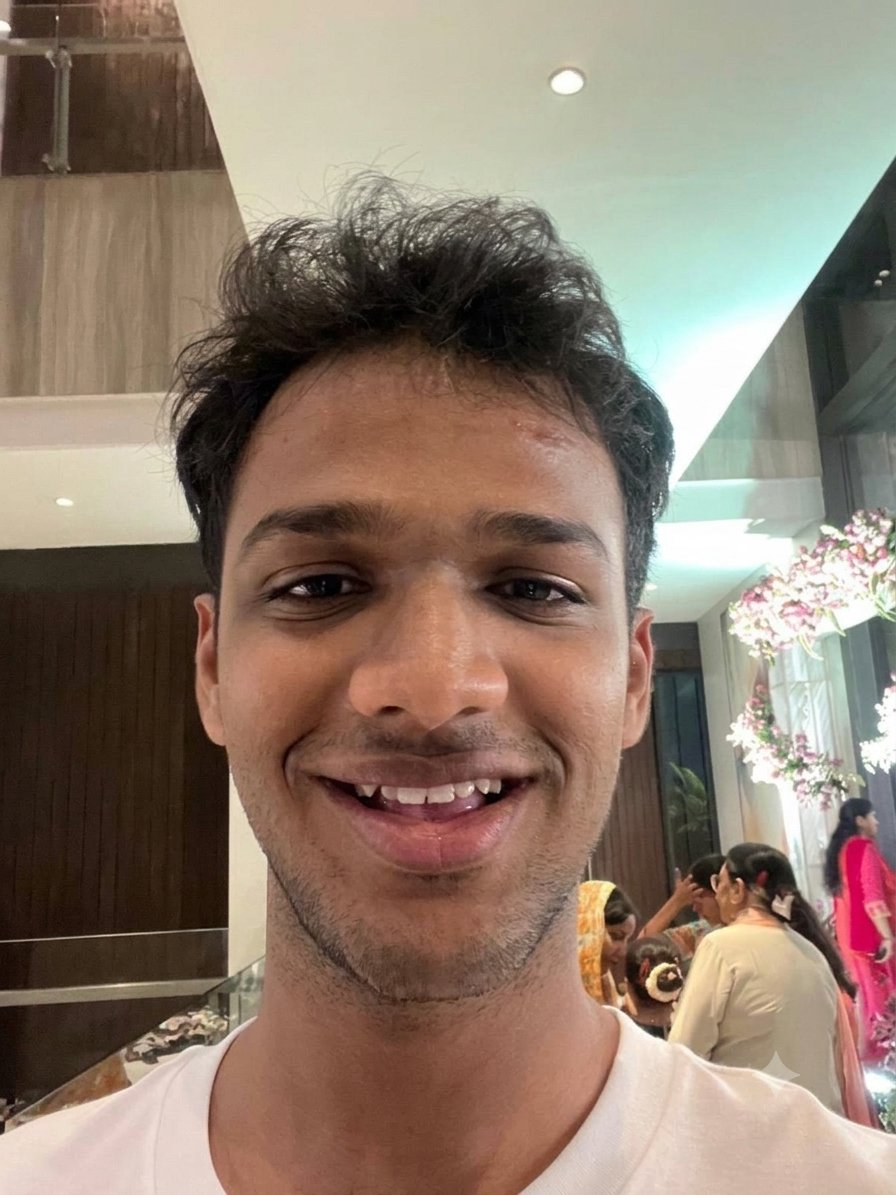
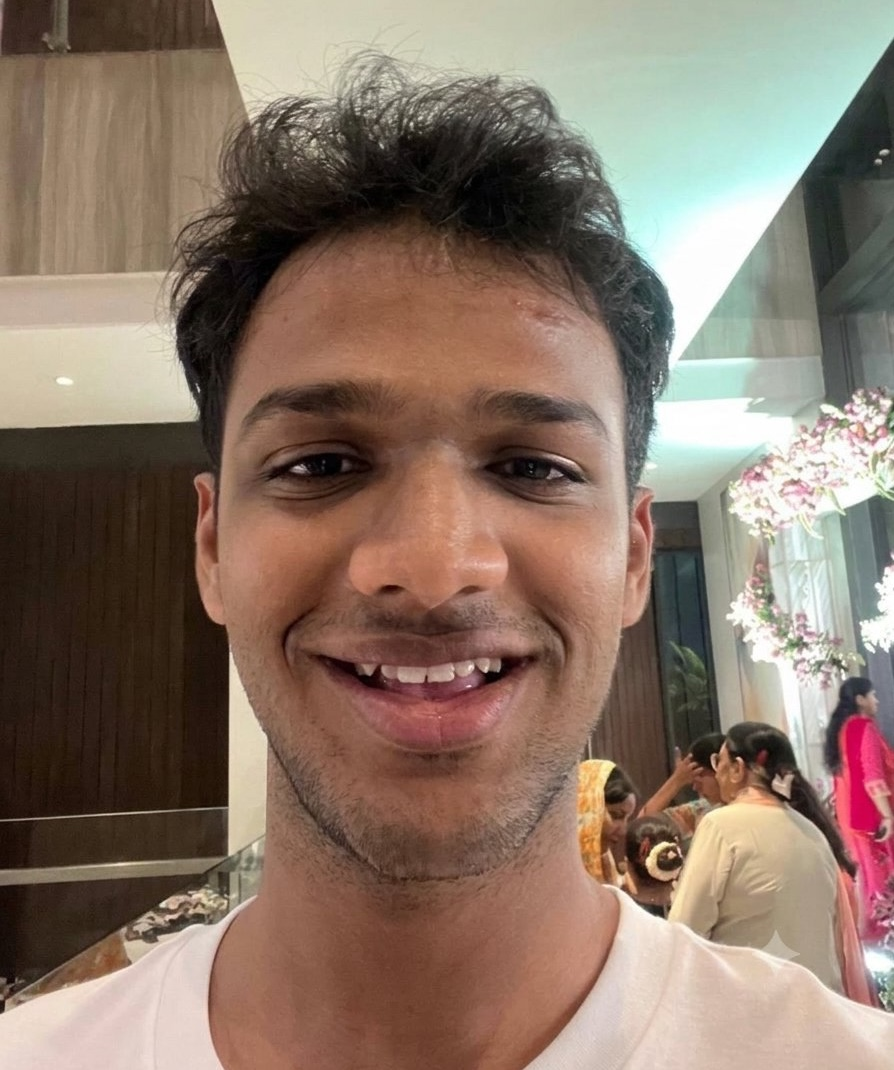
minor visual change

diff --git a/index.html b/index.html
@@ -63,7 +63,7 @@
           </div>
         </li>
         <li class="author-item">
-          <img class="author-photo photo-dhruv" src="assets/team/dhruv.jpeg?v=2" alt="Photograph of Dhruv Jalan" width="68" height="68" loading="eager">
+          <img class="author-photo photo-dhruv" src="assets/team/dhruv.jpeg?v=3" alt="Photograph of Dhruv Jalan" width="68" height="68" loading="eager">
           <div class="author-info">
             <strong>Dhruv Jalan</strong>
             <small>Roll No. 23110099 · B.Tech 4th Year, Chemical Engineering</small>
